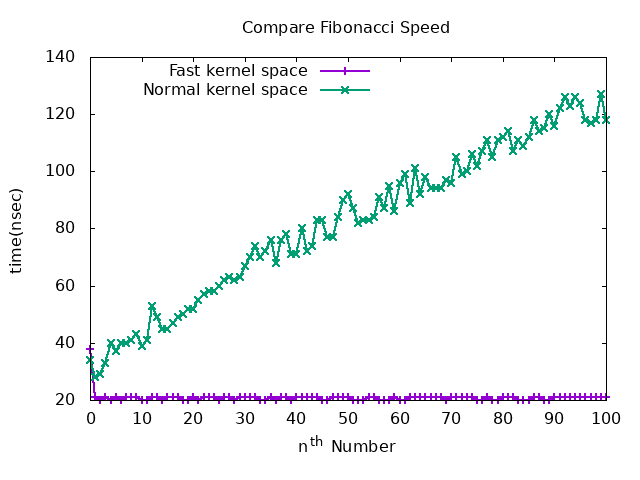
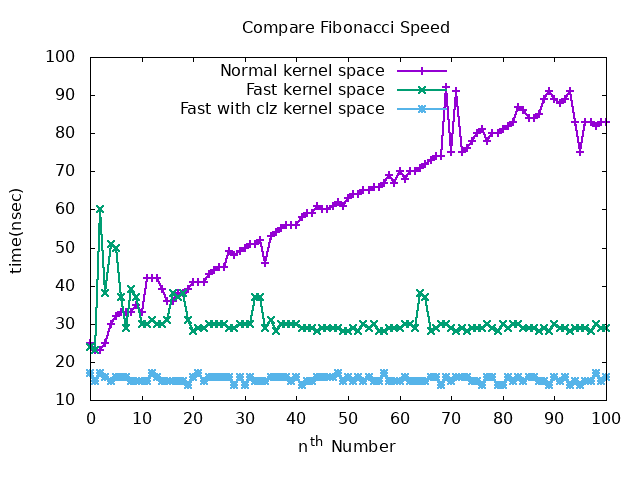
Add three types of calculation and compare

diff --git a/fibdrv.c b/fibdrv.c
@@ -4,6 +4,7 @@
 #include <linux/init.h>
 #include <linux/kdev_t.h>
 #include <linux/kernel.h>
+#include <linux/ktime.h>
 #include <linux/module.h>
 #include <linux/mutex.h>
 
@@ -39,6 +40,62 @@ static long long fib_sequence(long long k)
     return f[k];
 }
 
+static long long fast_doubling(long long k)
+{
+    /* FIXME: C99 variable-length array (VLA) is not allowed in Linux kernel. */
+    long long f[2] = {0, 1};
+
+    if (k < 2)
+        return k;
+
+    int x = 0;
+    long long one = 1LL << 62;
+
+    while (!(k & one)) {
+        one >>= 1;
+        x++;
+    }
+    long long what = 1LL << x++;
+
+    for (int i = 0; i < x; i++) {
+        long long temp;
+        temp = f[0];
+        f[0] = f[0] * (2 * f[1] - f[0]);
+        f[1] = f[1] * f[1] + temp * temp;
+        if (k & what) {
+            f[1] = f[0] + f[1];
+            f[0] = f[1] - f[0];
+        }
+        what >>= 1;
+    }
+    return f[0];
+}
+
+static long long fast_doubling_clz(long long k)
+{
+    /* FIXME: C99 variable-length array (VLA) is not allowed in Linux kernel. */
+    long long f[2] = {0, 1};
+
+    if (k < 2)
+        return k;
+
+    int x = 64 - __builtin_clzll(k);
+    long long what = 1 << x - 1;
+
+    for (int i = 0; i < x; i++) {
+        long long temp;
+        temp = f[0];
+        f[0] = f[0] * (2 * f[1] - f[0]);
+        f[1] = f[1] * f[1] + temp * temp;
+        if (k & what) {
+            f[1] = f[0] + f[1];
+            f[0] = f[1] - f[0];
+        }
+        what >>= 1;
+    }
+    return f[0];
+}
+
 static int fib_open(struct inode *inode, struct file *file)
 {
     if (!mutex_trylock(&fib_mutex)) {
@@ -69,7 +126,25 @@ static ssize_t fib_write(struct file *file,
                          size_t size,
                          loff_t *offset)
 {
-    return 1;
+    ktime_t ktime;
+    switch (size) {
+    case 0:
+        ktime = ktime_get();
+        fib_sequence(*offset);
+        ktime = ktime_sub(ktime_get(), ktime);
+        break;
+    case 1:
+        ktime = ktime_get();
+        fast_doubling(*offset);
+        ktime = ktime_sub(ktime_get(), ktime);
+        break;
+    case 2:
+        ktime = ktime_get();
+        fast_doubling_clz(*offset);
+        ktime = ktime_sub(ktime_get(), ktime);
+        break;
+    }
+    return (ssize_t) ktime;
 }
 
 static loff_t fib_device_lseek(struct file *file, loff_t offset, int orig)

diff --git a/client_plot.c b/client_plot.c
@@ -32,8 +32,19 @@ int main()
         printf("%lld ", (long long) ((end.tv_sec * 1e9 + end.tv_nsec) -
                                      (start.tv_sec * 1e9 + start.tv_nsec)) -
                             sz);
+
         clock_gettime(CLOCK_MONOTONIC, &start);
         sz = write(fd, buf, 1);
+        clock_gettime(CLOCK_MONOTONIC, &end);
+        printf("%lld ", (long long) ((end.tv_sec * 1e9 + end.tv_nsec) -
+                                     (start.tv_sec * 1e9 + start.tv_nsec)));
+        printf("%lld ", sz);
+        printf("%lld ", (long long) ((end.tv_sec * 1e9 + end.tv_nsec) -
+                                     (start.tv_sec * 1e9 + start.tv_nsec)) -
+                            sz);
+
+        clock_gettime(CLOCK_MONOTONIC, &start);
+        sz = write(fd, buf, 2);
         clock_gettime(CLOCK_MONOTONIC, &end);
         printf("%lld ", (long long) ((end.tv_sec * 1e9 + end.tv_nsec) -
                                      (start.tv_sec * 1e9 + start.tv_nsec)));
